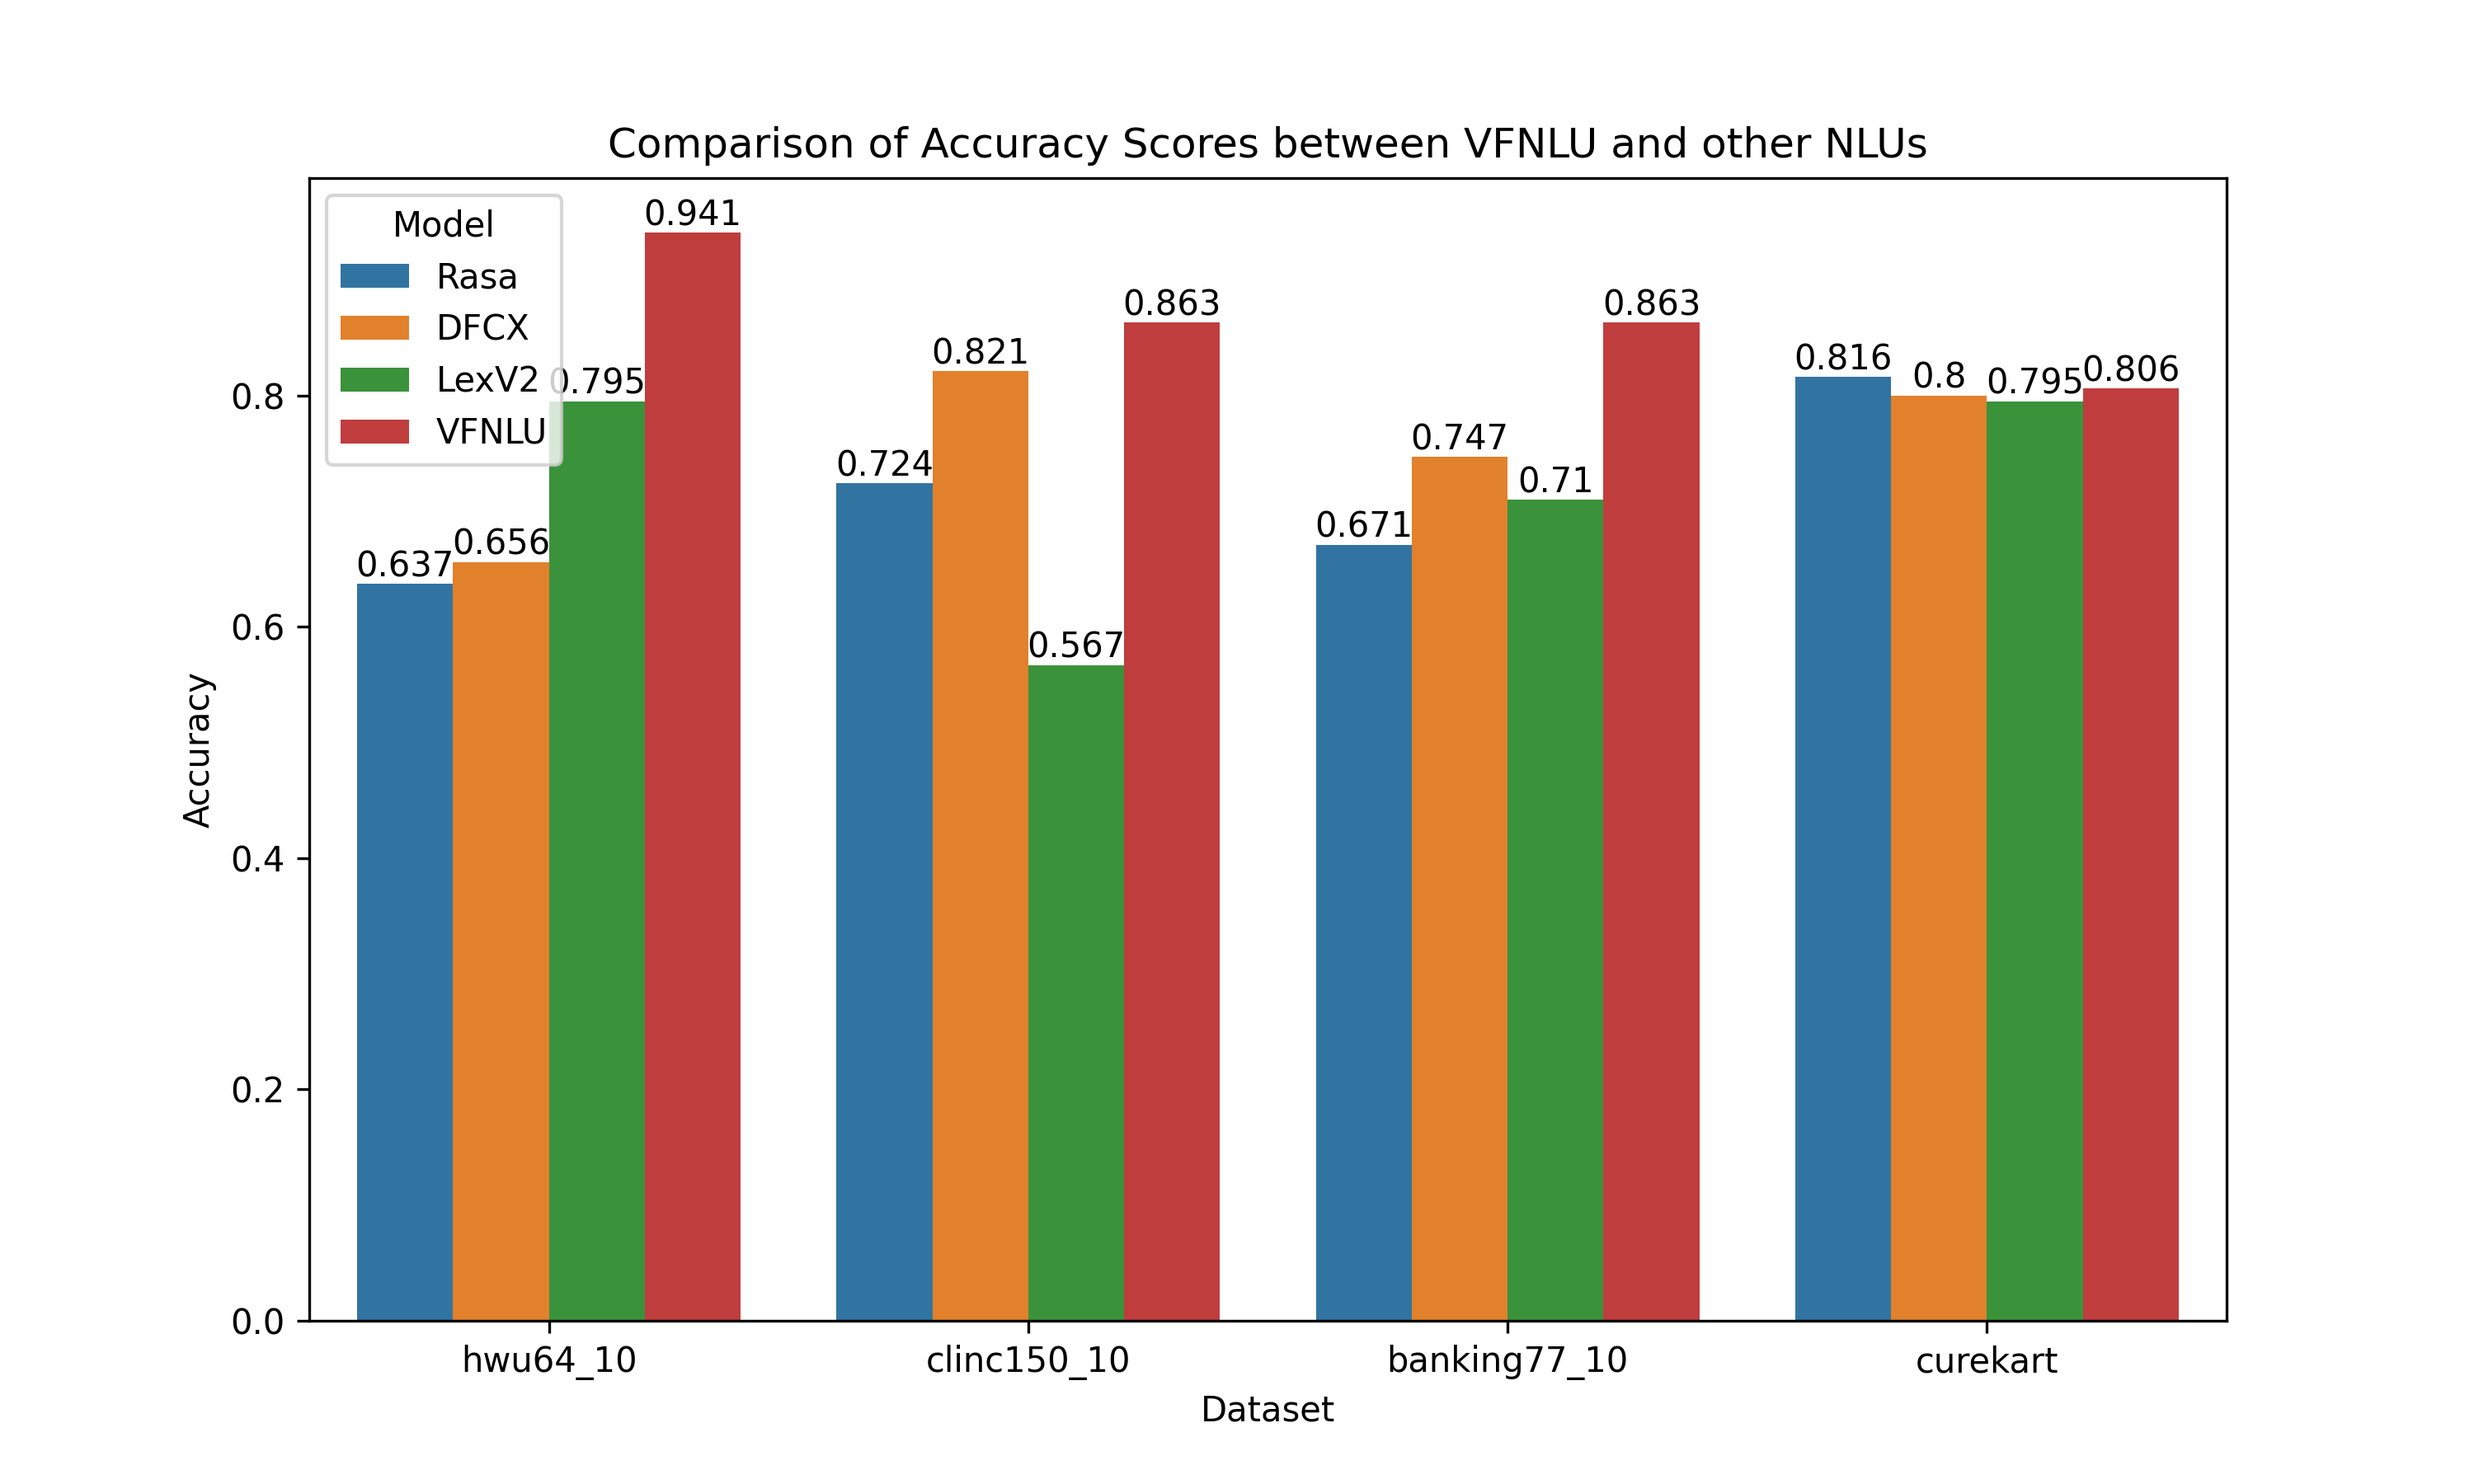
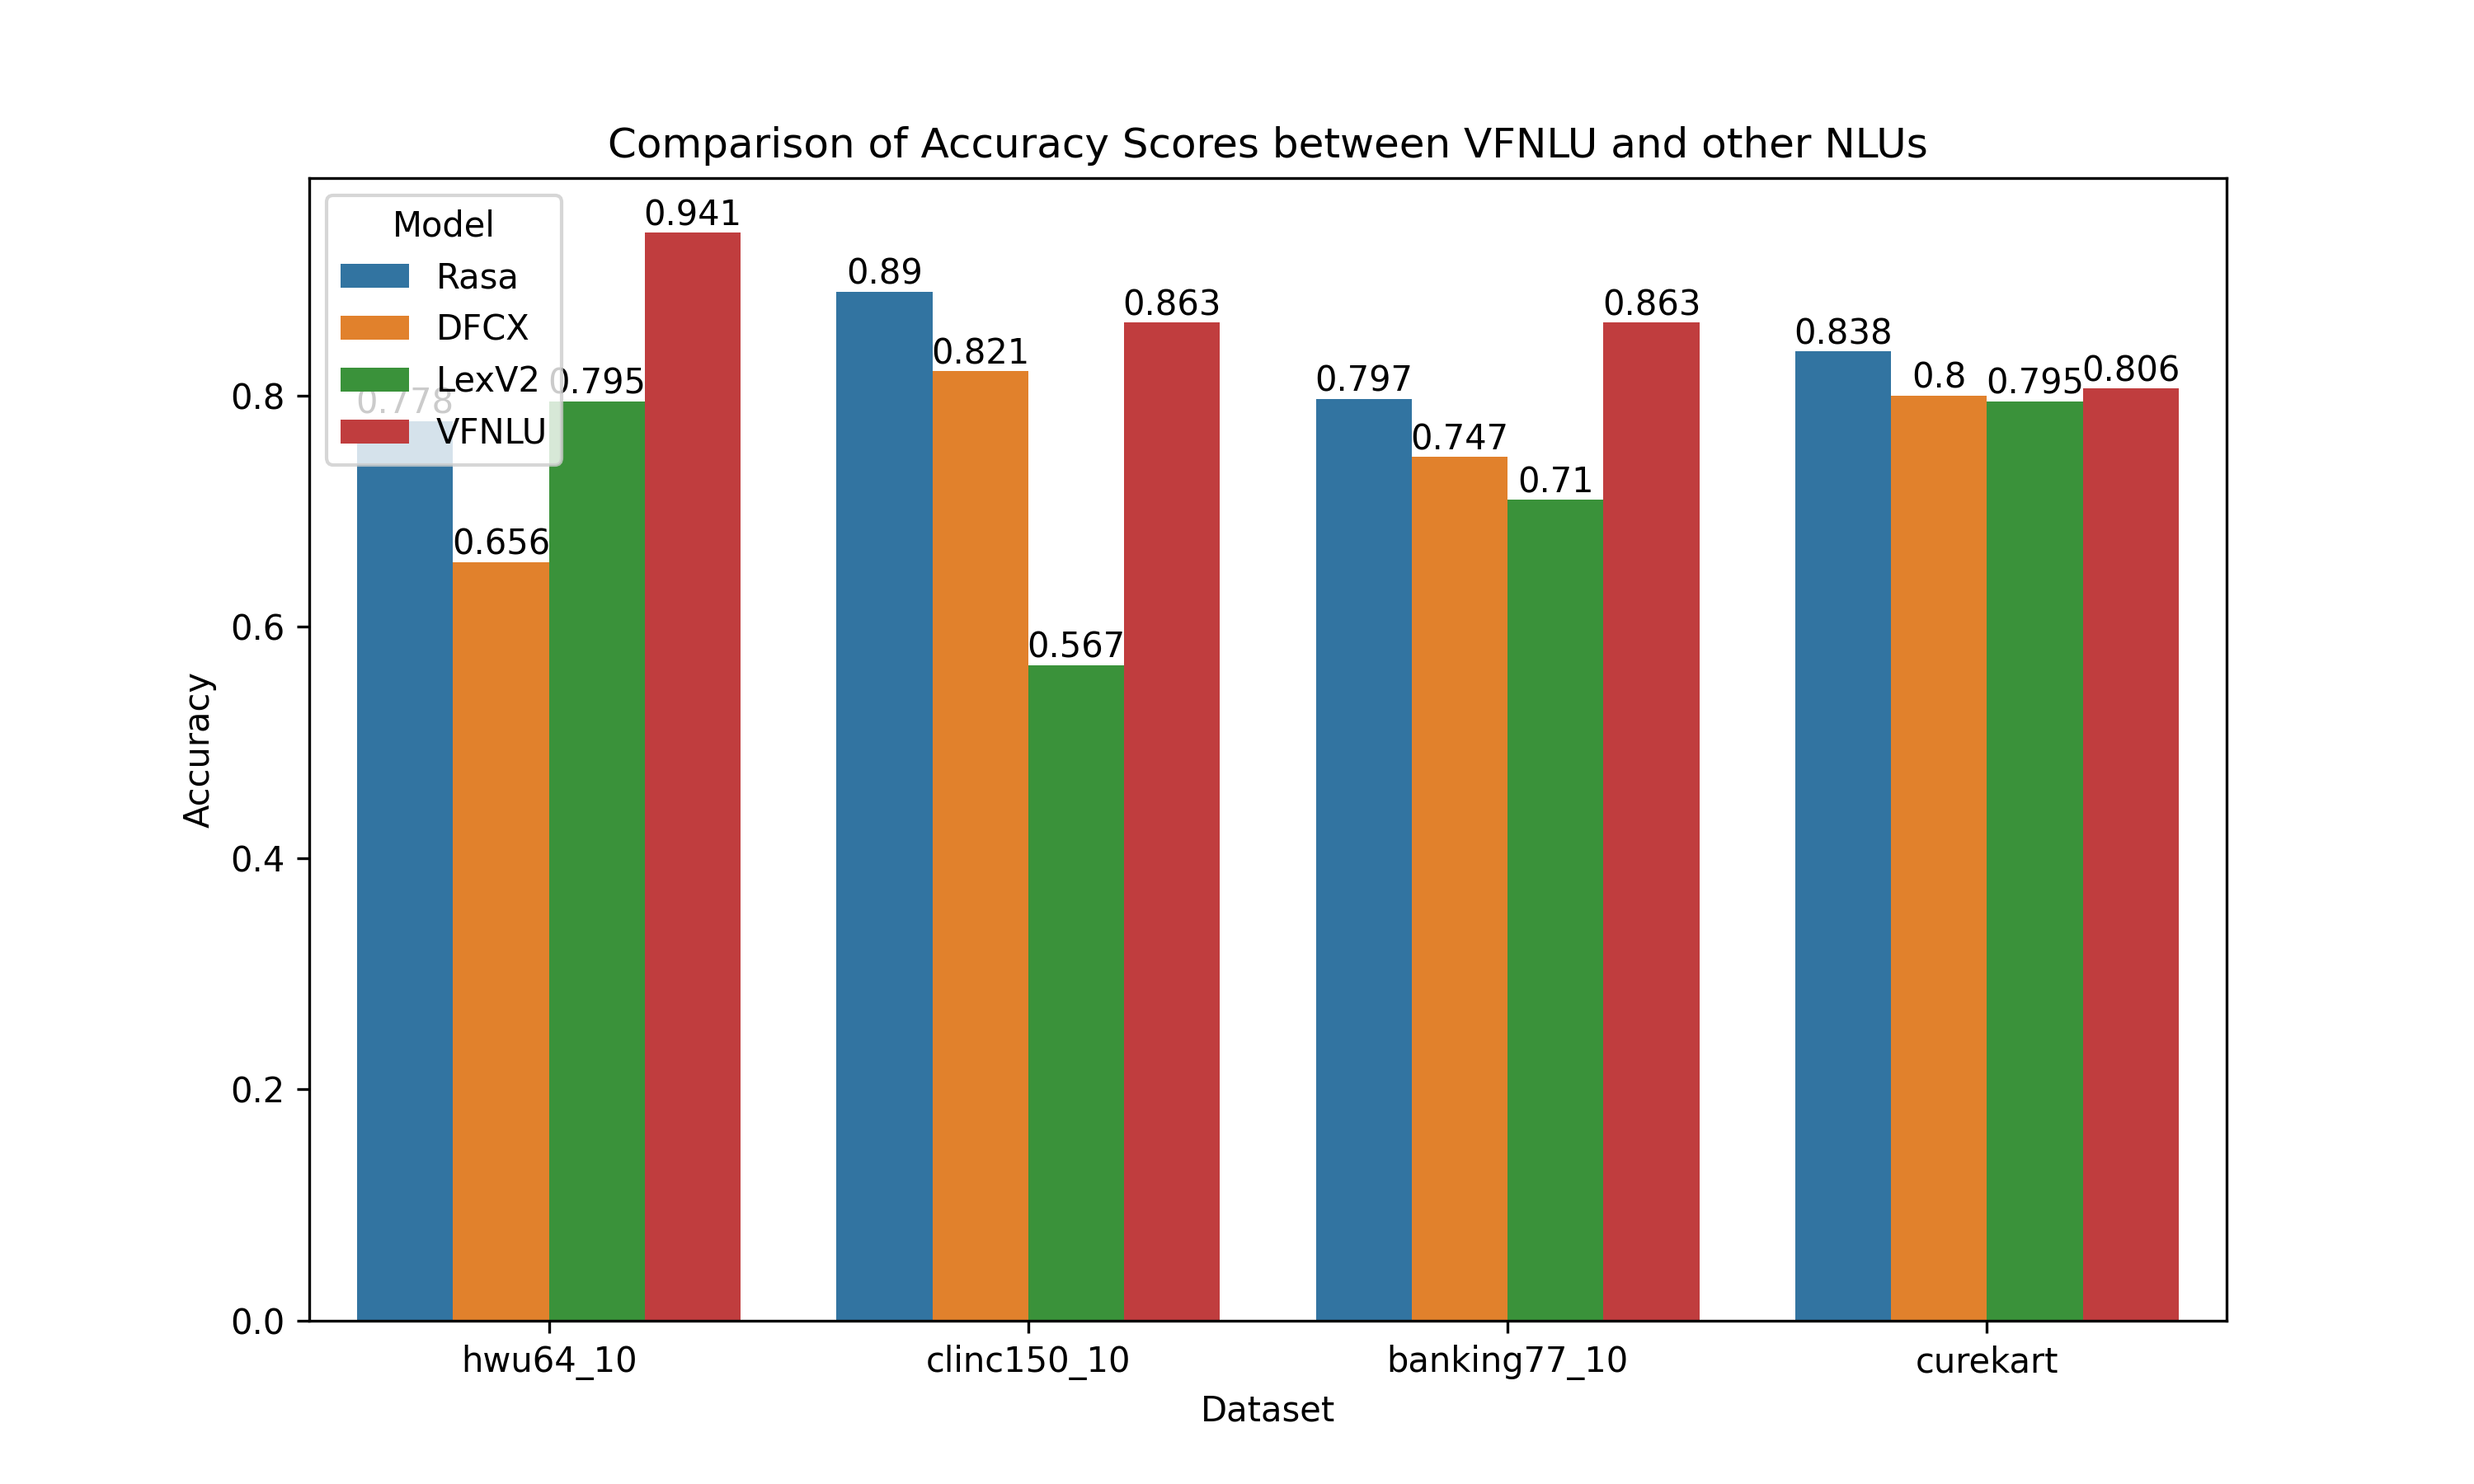
Updated Rasa Figures and config

diff --git a/src/benchmarks/README.md b/src/benchmarks/README.md
@@ -24,7 +24,7 @@ To extend the benchmarks, you can do the following steps:
 4. Open a pull request with the new datafiles and the new VF files.
 
 ## Results
-VFNLU outperforms DialogFlow CX (DFCX), Rasa and Lex v2  on the four benchmarks included.
+VFNLU outperforms DialogFlow CX, Lex v2 and Rasa DIET  on the four benchmarks included. It splits two benchmarks with Rasa on LMF (contrastive learning)
 ![VFNLU vs Other NLUs](figures/nlu_accuracy.png)
 
 ## NLU vs LLMs
@@ -52,7 +52,7 @@ Below is a comparison between both sets of benchmarks for % accuracy.
 | None intent %        | 2.8%  | 2.5%     | 0.7%      | 19.9%    |
 | Unexplained Variance | 0.8%  | 2.3%     | 4.3%      | -10.5%   |
 
-### Comparison Rasa with None intent
+### Comparison Rasa DIET with None intent
 Rasa shows minimal changes in accuracy between the base dataset and one with explicit None examples. Rasa in one case performs better with a None intent which is quite strange.
 ![RasaNone](figures/Rasa_accuracy.png)
 
@@ -63,6 +63,19 @@ Rasa shows minimal changes in accuracy between the base dataset and one with exp
 | Difference           | 1.3%  | 0.2%     | -2.7%     | 1.8%     |
 | None intent %        | 1.6%  | 0.4%     | 0.4%      | 3.9%     |
 | Unexplained Variance | -0.3% | -0.2%    | - 3.1%    | -2.1%    |
+
+### Comparison Rasa LMF with None intent
+Rasa LMF is a transformer based model using contrastive learning and a t5 encoder model. It performs better than the original Rasa DIET model and has smaller final models with a logistic regression head.
+However the pipeline is still monolingual and does not support entities out of the box.
+![RasaNone](figures/Rasa_t5_accuracy.png)
+
+| Dataset              | HWU64 | CLINC150 | Banking77 | CureKart |
+|----------------------|-------|----------|-----------|----------|
+| Rasa Base            | 77.8% | 89.0%    | 79.7%     | 83.8%    |
+| Rasa None            | 76.4% | 88.6%    | 79.6%     | 78.9%    |
+| Difference           | 1.4%  | 0.4%     | -0.1%     | 3.9%     |
+| None intent %        | 3.1%  | 0.8%     | 0.3%      | 6.8%     |
+| Unexplained Variance | -1.7% | -0.4%    | -0.2%     | -2.9%    |
 
 ### Comparison DFCX with Enriched Default Negative Intent 
 Dialogflow CX is quite sensitive when enriching their built in None Intent (called Default Negative Intent). For DFCX many of the mismatches seem to be redirected to the None intent which is an interesting pattern.
